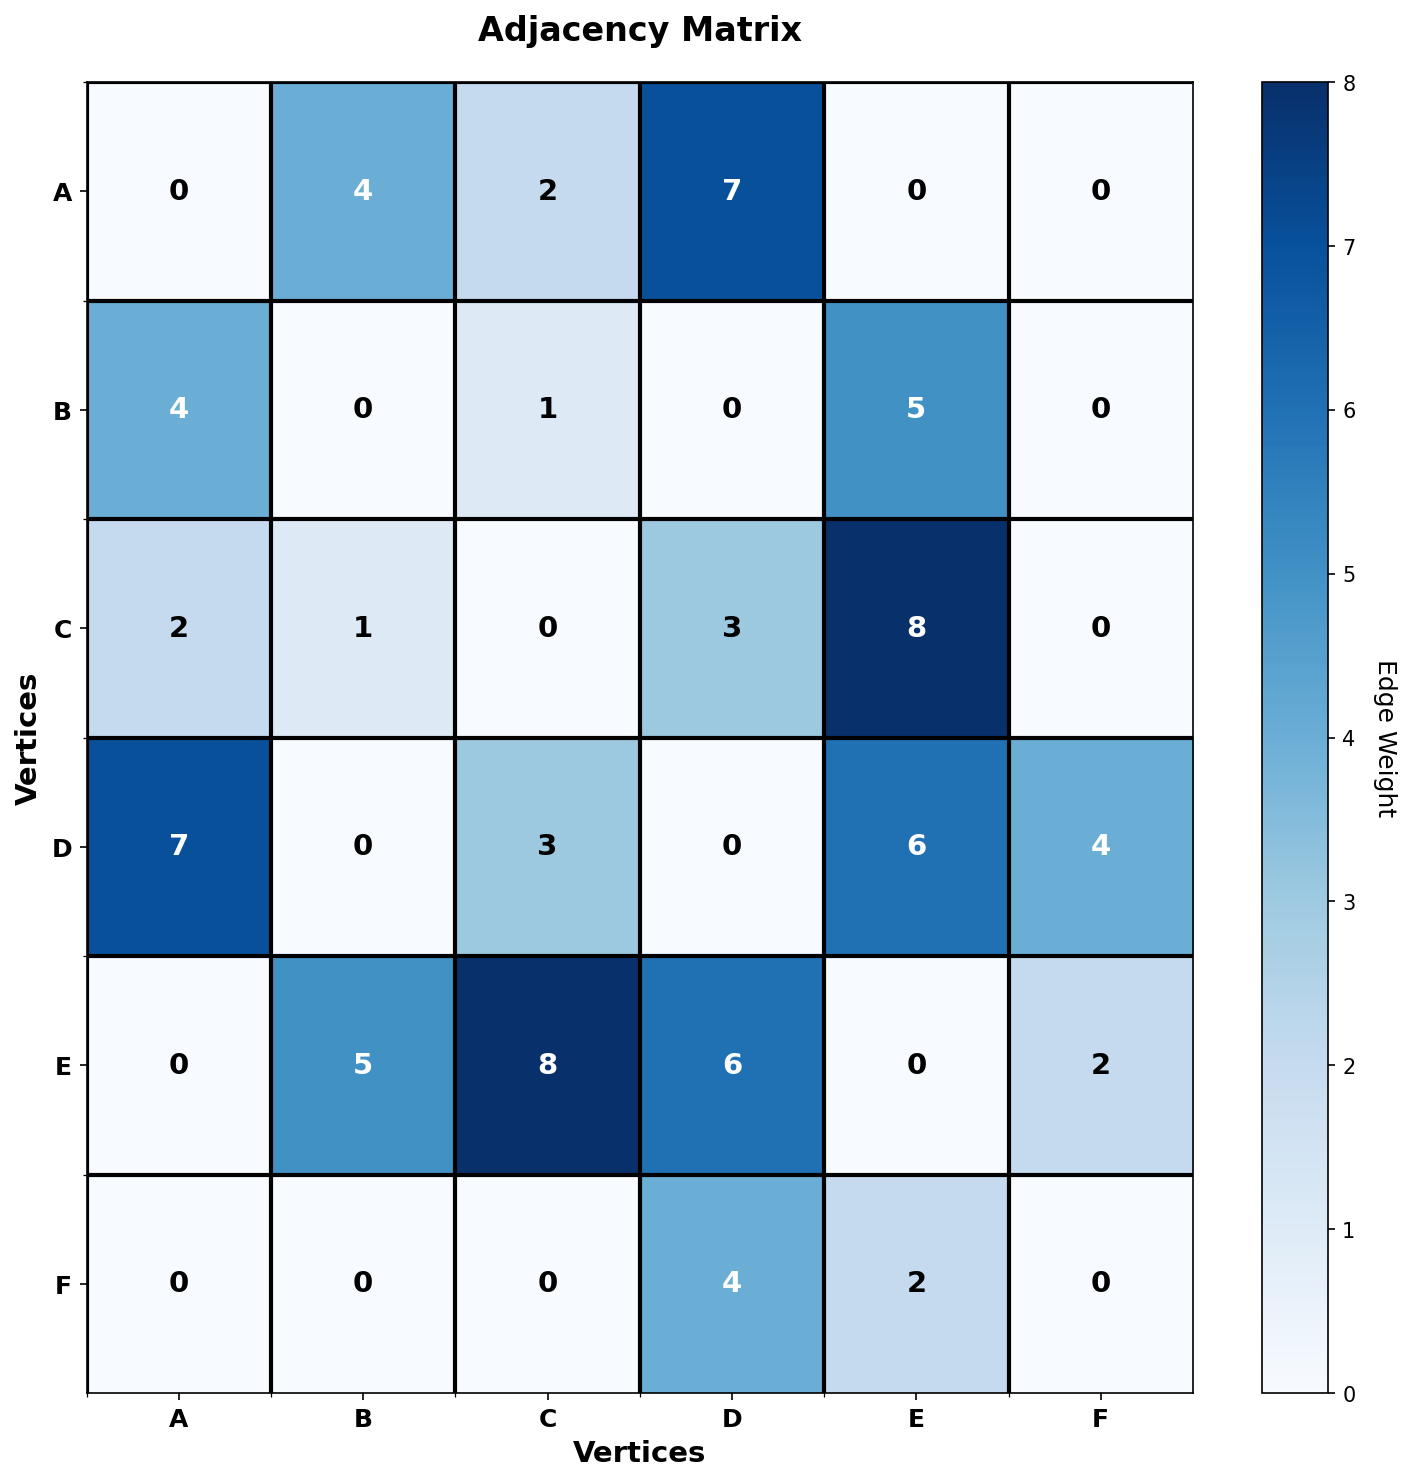
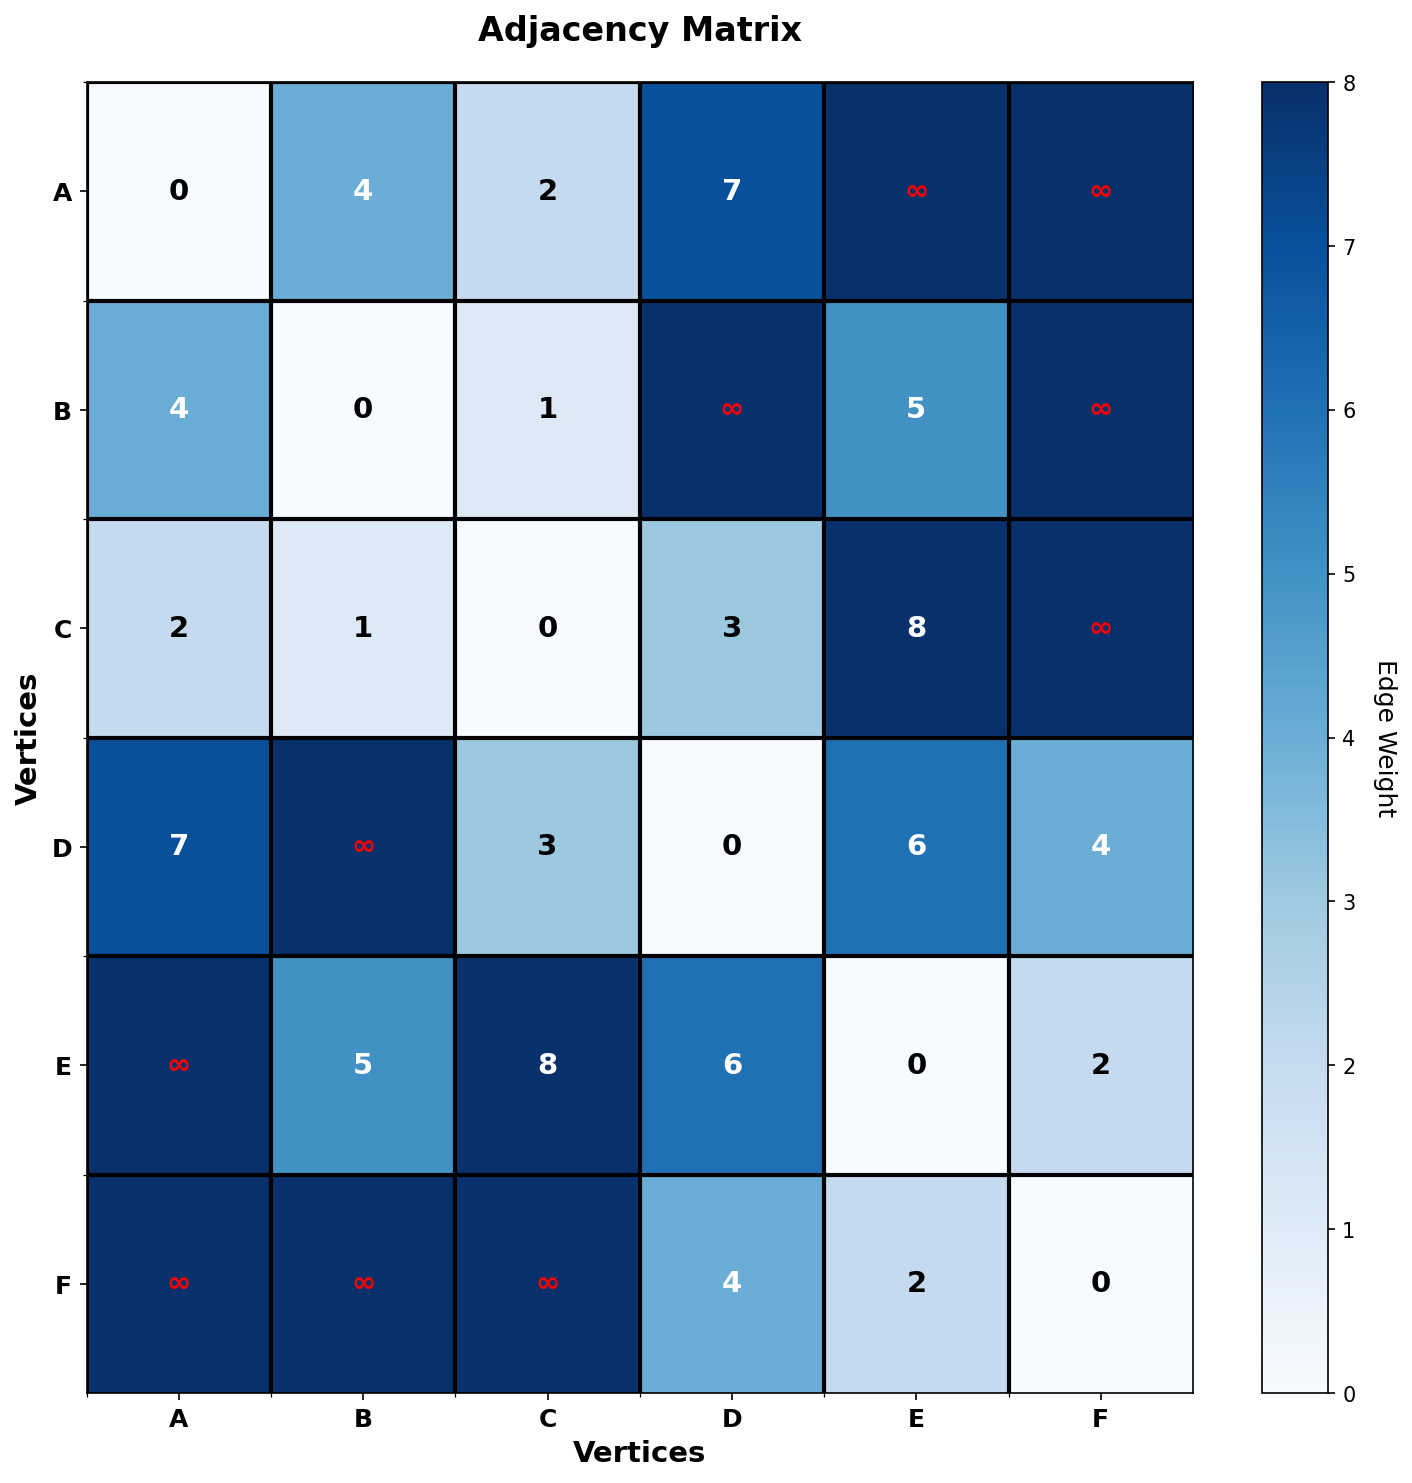
Update adjacency matrix to use infinity symbol for unreachable vertices

Changed region(s): [[0.4363, 0.031, 0.8725, 0.4963], [0.0623, 0.4963, 0.4674, 0.9616]]

diff --git a/graph_visualization/undirected_weighted_graph.py b/graph_visualization/undirected_weighted_graph.py
@@ -42,16 +42,21 @@ class UndirectedWeightedGraph:
         sorted_vertices = sorted(self.vertices)
         n = len(sorted_vertices)
         
-        # Create matrix
-        matrix = np.zeros((n, n), dtype=int)
+        # Create matrix with infinity for non-reachable vertices
+        # Using float to accommodate infinity
+        matrix = np.full((n, n), np.inf, dtype=float)
         
         # Fill matrix with weights
         for i, v1 in enumerate(sorted_vertices):
             for j, v2 in enumerate(sorted_vertices):
-                if self.graph.has_edge(v1, v2):
+                if i == j:
+                    # Diagonal: self to self is 0
+                    matrix[i][j] = 0
+                elif self.graph.has_edge(v1, v2):
                     weight = self.graph[v1][v2]['weight']
                     matrix[i][j] = weight
                     matrix[j][i] = weight  # Symmetric for undirected graph
+                # else: remains infinity (no edge)
         
         return matrix, sorted_vertices
     
@@ -118,9 +123,14 @@ class UndirectedWeightedGraph:
         
         fig, ax = plt.subplots(figsize=(10, 10))
         
+        # Create a display matrix for coloring (replace inf with max+1 for color scale)
+        display_matrix = matrix.copy()
+        max_weight = np.max(matrix[~np.isinf(matrix)])  # Max finite weight
+        display_matrix[np.isinf(display_matrix)] = max_weight + 1
+        
         # Create a color map
         cmap = plt.cm.Blues
-        im = ax.imshow(matrix, cmap=cmap, aspect='auto')
+        im = ax.imshow(display_matrix, cmap=cmap, aspect='auto', vmin=0, vmax=max_weight)
         
         # Add colorbar
         cbar = plt.colorbar(im, ax=ax)
@@ -138,10 +148,20 @@ class UndirectedWeightedGraph:
         # Add text annotations
         for i in range(n):
             for j in range(n):
-                text = ax.text(j, i, int(matrix[i, j]),
-                             ha="center", va="center",
-                             color="black" if matrix[i, j] < matrix.max()/2 else "white",
-                             fontsize=14, fontweight='bold')
+                if np.isinf(matrix[i, j]):
+                    # Display infinity symbol for unreachable vertices
+                    text_str = "∞"
+                    text_color = "red"
+                else:
+                    # Display weight as integer
+                    text_str = str(int(matrix[i, j]))
+                    # Determine color based on value
+                    text_color = "black" if matrix[i, j] < max_weight/2 else "white"
+                
+                ax.text(j, i, text_str,
+                       ha="center", va="center",
+                       color=text_color,
+                       fontsize=14, fontweight='bold')
         
         ax.set_title("Adjacency Matrix", fontsize=16, fontweight='bold', pad=20)
         ax.set_xlabel("Vertices", fontsize=14, fontweight='bold')
@@ -260,7 +280,10 @@ class UndirectedWeightedGraph:
         for i, v in enumerate(vertices):
             print(f"{v:4}", end="")
             for j in range(len(vertices)):
-                print(f"{int(matrix[i][j]):4}", end="")
+                if np.isinf(matrix[i][j]):
+                    print(f"{'∞':>4}", end="")
+                else:
+                    print(f"{int(matrix[i][j]):4}", end="")
             print()
         
         print("="*60 + "\n")

diff --git a/graph_visualization/README.md b/graph_visualization/README.md
@@ -43,24 +43,24 @@ The graph contains **10 edges** (meeting the requirement of at least 6 edges):
 
 ## 邻接矩阵 / Adjacency Matrix
 
-邻接矩阵是一个 6×6 的矩阵，其中元素 matrix[i][j] 表示顶点 i 和顶点 j 之间边的权重。如果两个顶点之间没有边，则值为 0。
+邻接矩阵是一个 6×6 的矩阵，其中元素 matrix[i][j] 表示顶点 i 和顶点 j 之间边的权重。如果两个顶点之间没有边，则值为 ∞（无穷）。
 
-The adjacency matrix is a 6×6 matrix where element matrix[i][j] represents the weight of the edge between vertex i and vertex j. If there is no edge, the value is 0.
+The adjacency matrix is a 6×6 matrix where element matrix[i][j] represents the weight of the edge between vertex i and vertex j. If there is no edge, the value is ∞ (infinity).
 
 ```
      A   B   C   D   E   F   
-A    0   4   2   7   0   0
-B    4   0   1   0   5   0
-C    2   1   0   3   8   0
-D    7   0   3   0   6   4
-E    0   5   8   6   0   2
-F    0   0   0   4   2   0
+A    0   4   2   7   ∞   ∞
+B    4   0   1   ∞   5   ∞
+C    2   1   0   3   8   ∞
+D    7   ∞   3   0   6   4
+E    ∞   5   8   6   0   2
+F    ∞   ∞   ∞   4   2   0
 ```
 
 **特点 / Characteristics:**
 - 对称矩阵（因为是无向图）/ Symmetric matrix (because it's an undirected graph)
 - 主对角线全为 0（没有自环）/ Main diagonal is all 0 (no self-loops)
-- 非零元素表示边的权重 / Non-zero elements represent edge weights
+- 边权重用数字表示，不可达用 ∞ 表示 / Edge weights shown as numbers, unreachable vertices shown as ∞
 
 ---
 
